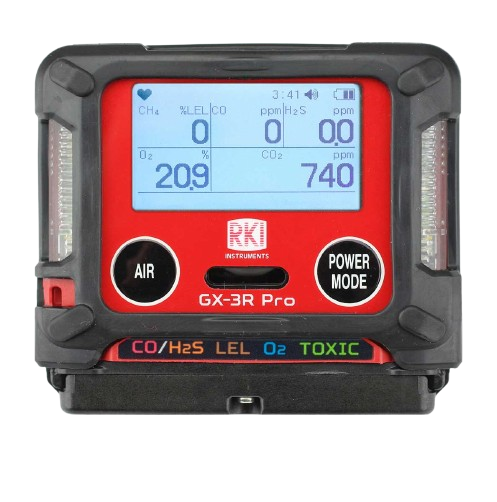
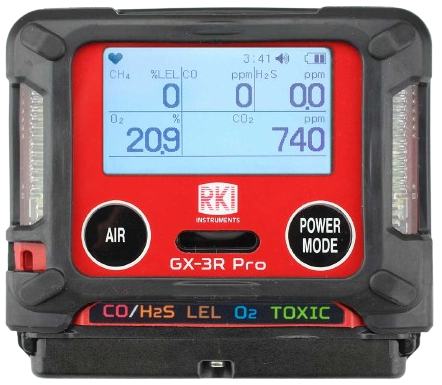
fix: gas pictures

diff --git a/src/pages/GasDetectionInstrumentDetailPage.vue b/src/pages/GasDetectionInstrumentDetailPage.vue
@@ -19,7 +19,7 @@ const { instrument } = useInstrument();
                 <!-- Image container with responsive sizing -->
                 <div class="flex justify-center lg:justify-start items-start flex-shrink-0">
                     <img :src="instrument.imgPath" :alt="instrument.alt" loading="lazy"
-                        class="w-48 h-[30rem] sm:w-56 sm:h-[35rem] md:w-64 md:h-[40rem] lg:w-80 lg:h-[50rem] object-contain" />
+                        class="lg:mt-8 w-48 sm:w-56 md:w-64 lg:w-80 max-h-[80vh]" />
                 </div>
 
                 <!-- Features list with responsive spacing -->

diff --git a/src/data/instruments/rki_sdm_04_calibration_station.ts b/src/data/instruments/rki_sdm_04_calibration_station.ts
@@ -1,4 +1,4 @@
-import path from "@/assets/gas_detection_instruments/rki_sdm_3r_calibration_station.png";
+import path from "@/assets/gas_detection_instruments/rki_sdm_04_calibration_station.png";
 import { createInstrumentWithImport } from "@/utils/instrumentFactory";
 
 export const rki_sdm_04_calibration_station = createInstrumentWithImport(
